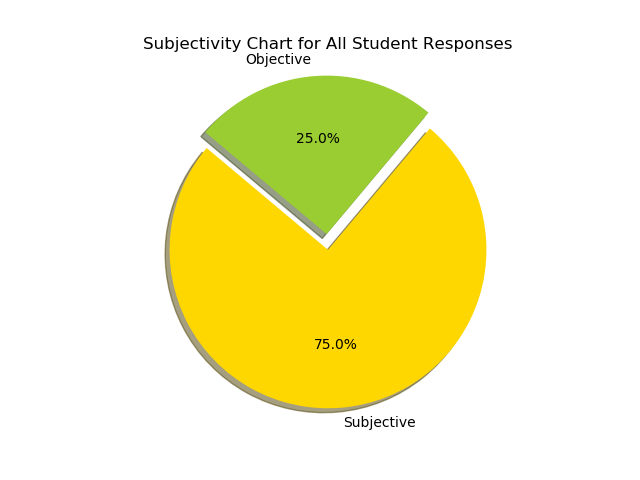
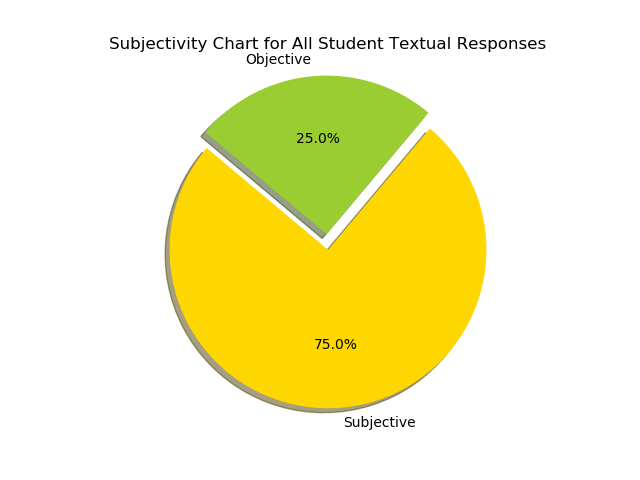
new changes

Changed region(s): [[0.1562, 0.0625, 0.8438, 0.125]]

diff --git a/data_analytics.py b/data_analytics.py
@@ -158,11 +158,11 @@ def sentiment_analysis():
         new_row = [question_id, percentage_positive, percentage_negative, percentage_subjective, percentage_objective, percentage_neutral]
         analytics_dict[question_id].extend(new_row)
 
-    print("Percentage of positive responses out of responses among all students: {}%".format((num_positive/num_aggregate_responses)*100))
-    print("Percentage of negative responses out of responses among all students: {}%".format((num_negative/num_aggregate_responses)*100))
-    print("Percentage of objective responses out of responses among all students: {}%".format((num_objective/num_aggregate_responses)*100))
-    print("Percentage of subjective responses out of responses among all students: {}%".format((num_subjective/num_aggregate_responses)*100))
-    print("Percentage of neutral responses out of responses among all students: {}%".format((num_neutral/num_aggregate_responses)*100))
+    print("Percentage of positive responses out of textual responses among all students: {}%".format((num_positive/num_aggregate_responses)*100))
+    print("Percentage of negative responses out of textual responses among all students: {}%".format((num_negative/num_aggregate_responses)*100))
+    print("Percentage of objective responses out of textual responses among all students: {}%".format((num_objective/num_aggregate_responses)*100))
+    print("Percentage of subjective responses out of textual responses among all students: {}%".format((num_subjective/num_aggregate_responses)*100))
+    print("Percentage of neutral responses out of textual responses among all students: {}%".format((num_neutral/num_aggregate_responses)*100))
     # pie chart
     labels = 'Subjective', 'Objective'
     sizes = [(num_subjective/num_aggregate_responses)*360, (num_objective/num_aggregate_responses)*360]
@@ -171,7 +171,7 @@ def sentiment_analysis():
     polarity_chart = plt.figure()
     plt.pie(sizes, explode=explode, labels=labels, colors=colors, autopct='%1.1f%%', shadow=True, startangle=140)
     plt.axis('equal')
-    plt.title("Subjectivity Chart for All Student Responses")
+    plt.title("Subjectivity Chart for All Student Textual Responses")
     plt.savefig("subjectivity_chart") # saves the figure as a file
 
     labels = 'Positive', 'Negative'
@@ -180,7 +180,7 @@ def sentiment_analysis():
     explode = (0, 0.1)
     polarity_chart = plt.figure()
     plt.pie(sizes, explode=explode, labels=labels, colors=colors, autopct='%1.1f%%', shadow=True, startangle=140)
-    plt.title('Polarity Chart for All Student Responses')
+    plt.title('Polarity Chart for All Student Textual Responses')
     plt.axis('equal')
     plt.savefig("polarity_chart") # saves the figure as a file
             
